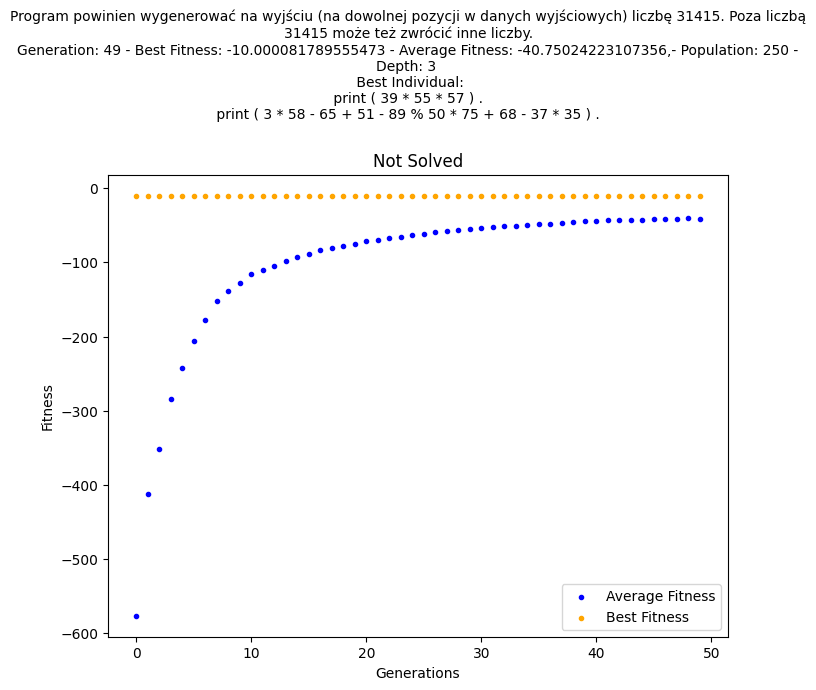
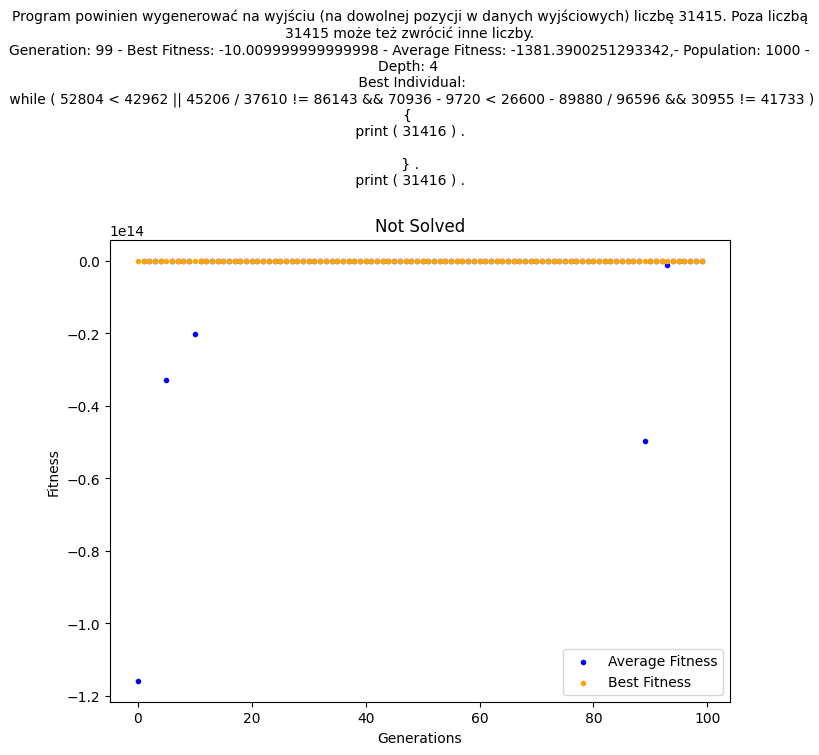
solved 1.1.B

diff --git a/testing.py b/testing.py
@@ -59,7 +59,10 @@ def fitness_function_3(program):
         if 31415 in output:
             return 0
         else:
-            return -10 * (1 / abs(max(output)) + 1)
+            if len(output) == 0:
+                return -10000
+            else:
+                return -10 * (sum([abs(x - 31415) for x in output]) / 1000 + 1)
     except Exception as e:
         # print(e)
         return -1000
@@ -151,10 +154,10 @@ def test(function, ex: str, filename):
 if __name__ == '__main__':
     #test(fitness_function_1, "Program powinien wygenerować na wyjściu (na dowolnej pozycji w danych wyjściowych) "
     #                       "liczbę 1. Poza liczbą 1 może też zwrócić inne liczby.", "1.1.A")
-    test(fitness_function_2, "Program powinien wygenerować na wyjściu (na dowolnej pozycji w danych wyjściowych) "
-                             "liczbę 789. Poza liczbą 789 może też zwrócić inne liczby.", "1.1.B")
-    #test(fitness_function_3, "Program powinien wygenerować na wyjściu (na dowolnej pozycji w danych wyjściowych) "
-    #                         "liczbę 31415. Poza liczbą 31415 może też zwrócić inne liczby.", "1.1.C")
+    #test(fitness_function_2, "Program powinien wygenerować na wyjściu (na dowolnej pozycji w danych wyjściowych) "
+    #                         "liczbę 789. Poza liczbą 789 może też zwrócić inne liczby.", "1.1.B")
+    test(fitness_function_3, "Program powinien wygenerować na wyjściu (na dowolnej pozycji w danych wyjściowych) "
+                             "liczbę 31415. Poza liczbą 31415 może też zwrócić inne liczby.", "1.1.C")
     #test(fitness_function_4, "Program powinien wygenerować na pierwszej pozycji na wyjściu liczbę 1. "
     #                         "Poza liczbą 1 może też zwrócić inne liczby.", "1.1.D")
     #test(fitness_function_5, "Program powinien wygenerować na pierwszej pozycji na wyjściu liczbę 789. "

diff --git a/gp/BiggerGP.py b/gp/BiggerGP.py
@@ -7,12 +7,12 @@ from gp.Stats import Stats
 class BiggerGP:
     """ Class executing genetic algorithm using simple custom programming language"""
 
-    def __init__(self, p_size: int = 500, depth: int = 4):
+    def __init__(self, p_size: int = 1000, depth: int = 4):
         self.MAX_LEN: int = 4
         self.MAX_LOGIC_LEN: int = 5
         self.POP_SIZE: int = p_size
         self.DEPTH: int = depth
-        self.GENERATIONS: int = 50
+        self.GENERATIONS: int = 100
         self.MATCH_SIZE: int = 2
         self.MUTATION_RATE: int = 10
 
@@ -162,7 +162,7 @@ class BiggerGP:
         for i in range(len(buffer)):  # choose some ints
             if buffer[i] == 2200:
                 index = len(self.int_literals) + 100000
-                self.int_literals[index] = random.randint(0, 10000)  # can be changed
+                self.int_literals[index] = random.randint(0, 100000)  # can be changed
                 buffer[i] = index
 
         self.to_string(buffer)

diff --git a/driver.py b/driver.py
@@ -6,15 +6,13 @@ from gen.ExprVisitor import ExprVisitor
 
 def main(filename):
     input_stream = FileStream(filename)
-    lexer = ExprLexer(input_stream)
+    lexer = ExprLexer(InputStream("print ( 860 ) .\n\n."))
     stream = CommonTokenStream(lexer)
     parser = ExprParser(stream)
     tree = parser.prog()
     visitor = ExprVisitor()
     output = visitor.visit(tree)
     print(output)
-    print( 1 in output)
-    print(1 in [-2.032727272727479, 1])
 
 
 if __name__ == '__main__':
